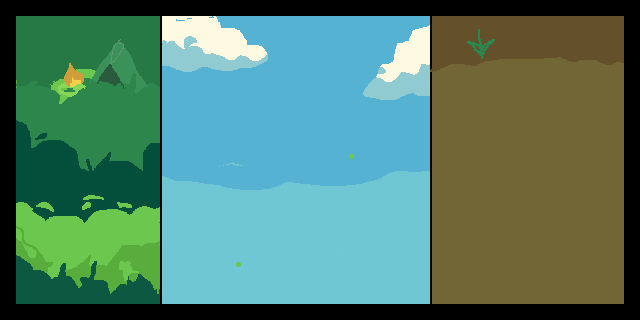
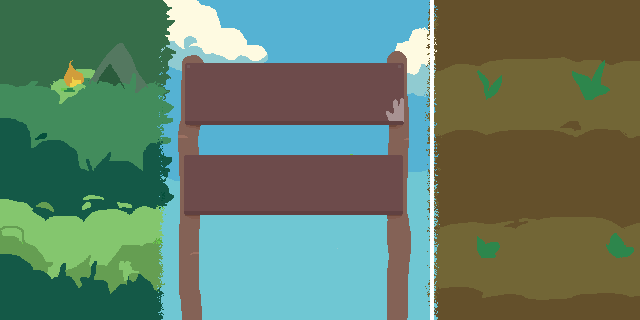
awd

diff --git a/src/scenes/mainmenu.py b/src/scenes/mainmenu.py
@@ -14,11 +14,14 @@ class MainMenu:
         w = self.ctx.w
         h = self.ctx.h
         dt_s = self.ctx.dt_s
-        
+            
         # replace with background image 
         # self.ctx.screen.fill((195, 176, 165))
         self.ctx.screen.blit(self.ctx.images["mainmenu_background.png"])
         
+        self.ctx.screen.blit(self.ctx.images["mainmenu_newgame_normal.png"],dest=(400,400))
+        self.ctx.screen.blit(self.ctx.images["mainmenu_continue_normal.png"],dest=(400,500))
+
         # menu = pygame.Surface((self.ctx.w,self.ctx.h))
         
         # pygame.draw.rect(menu,(222, 212, 203),pygame.Rect(self.ctx.w/2-400/2,60+(150+20)*0,400,150),0,40)
